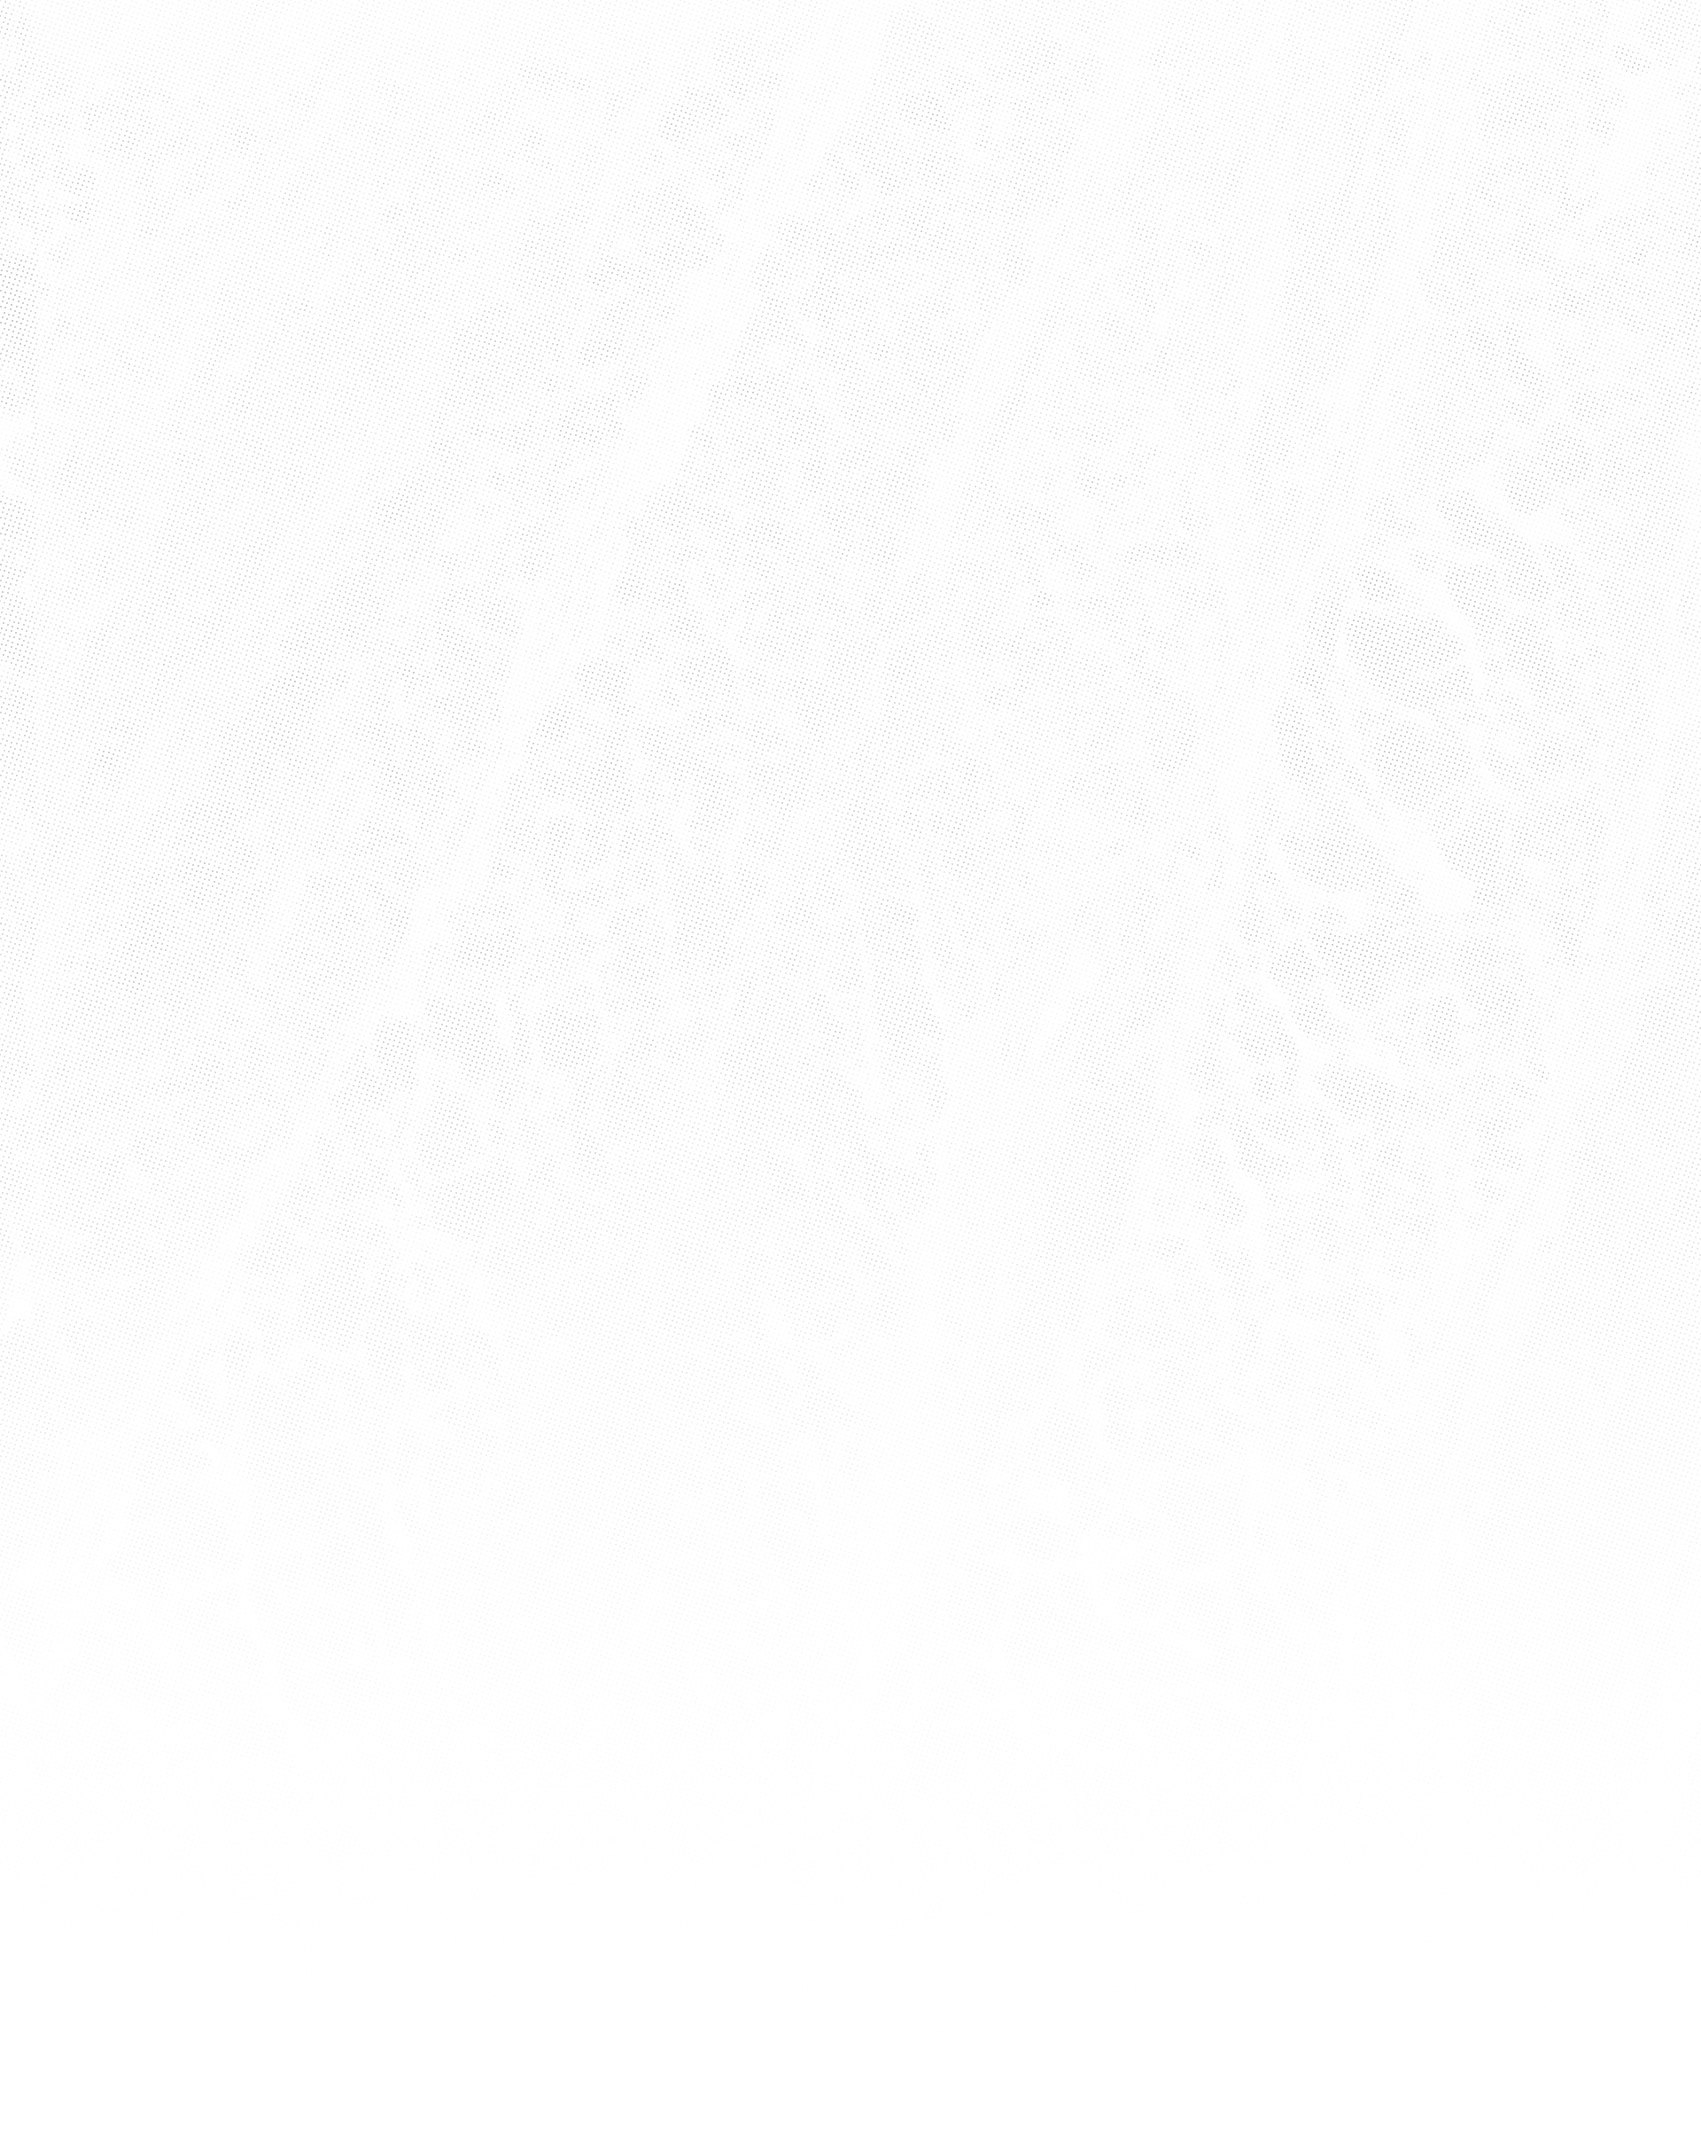
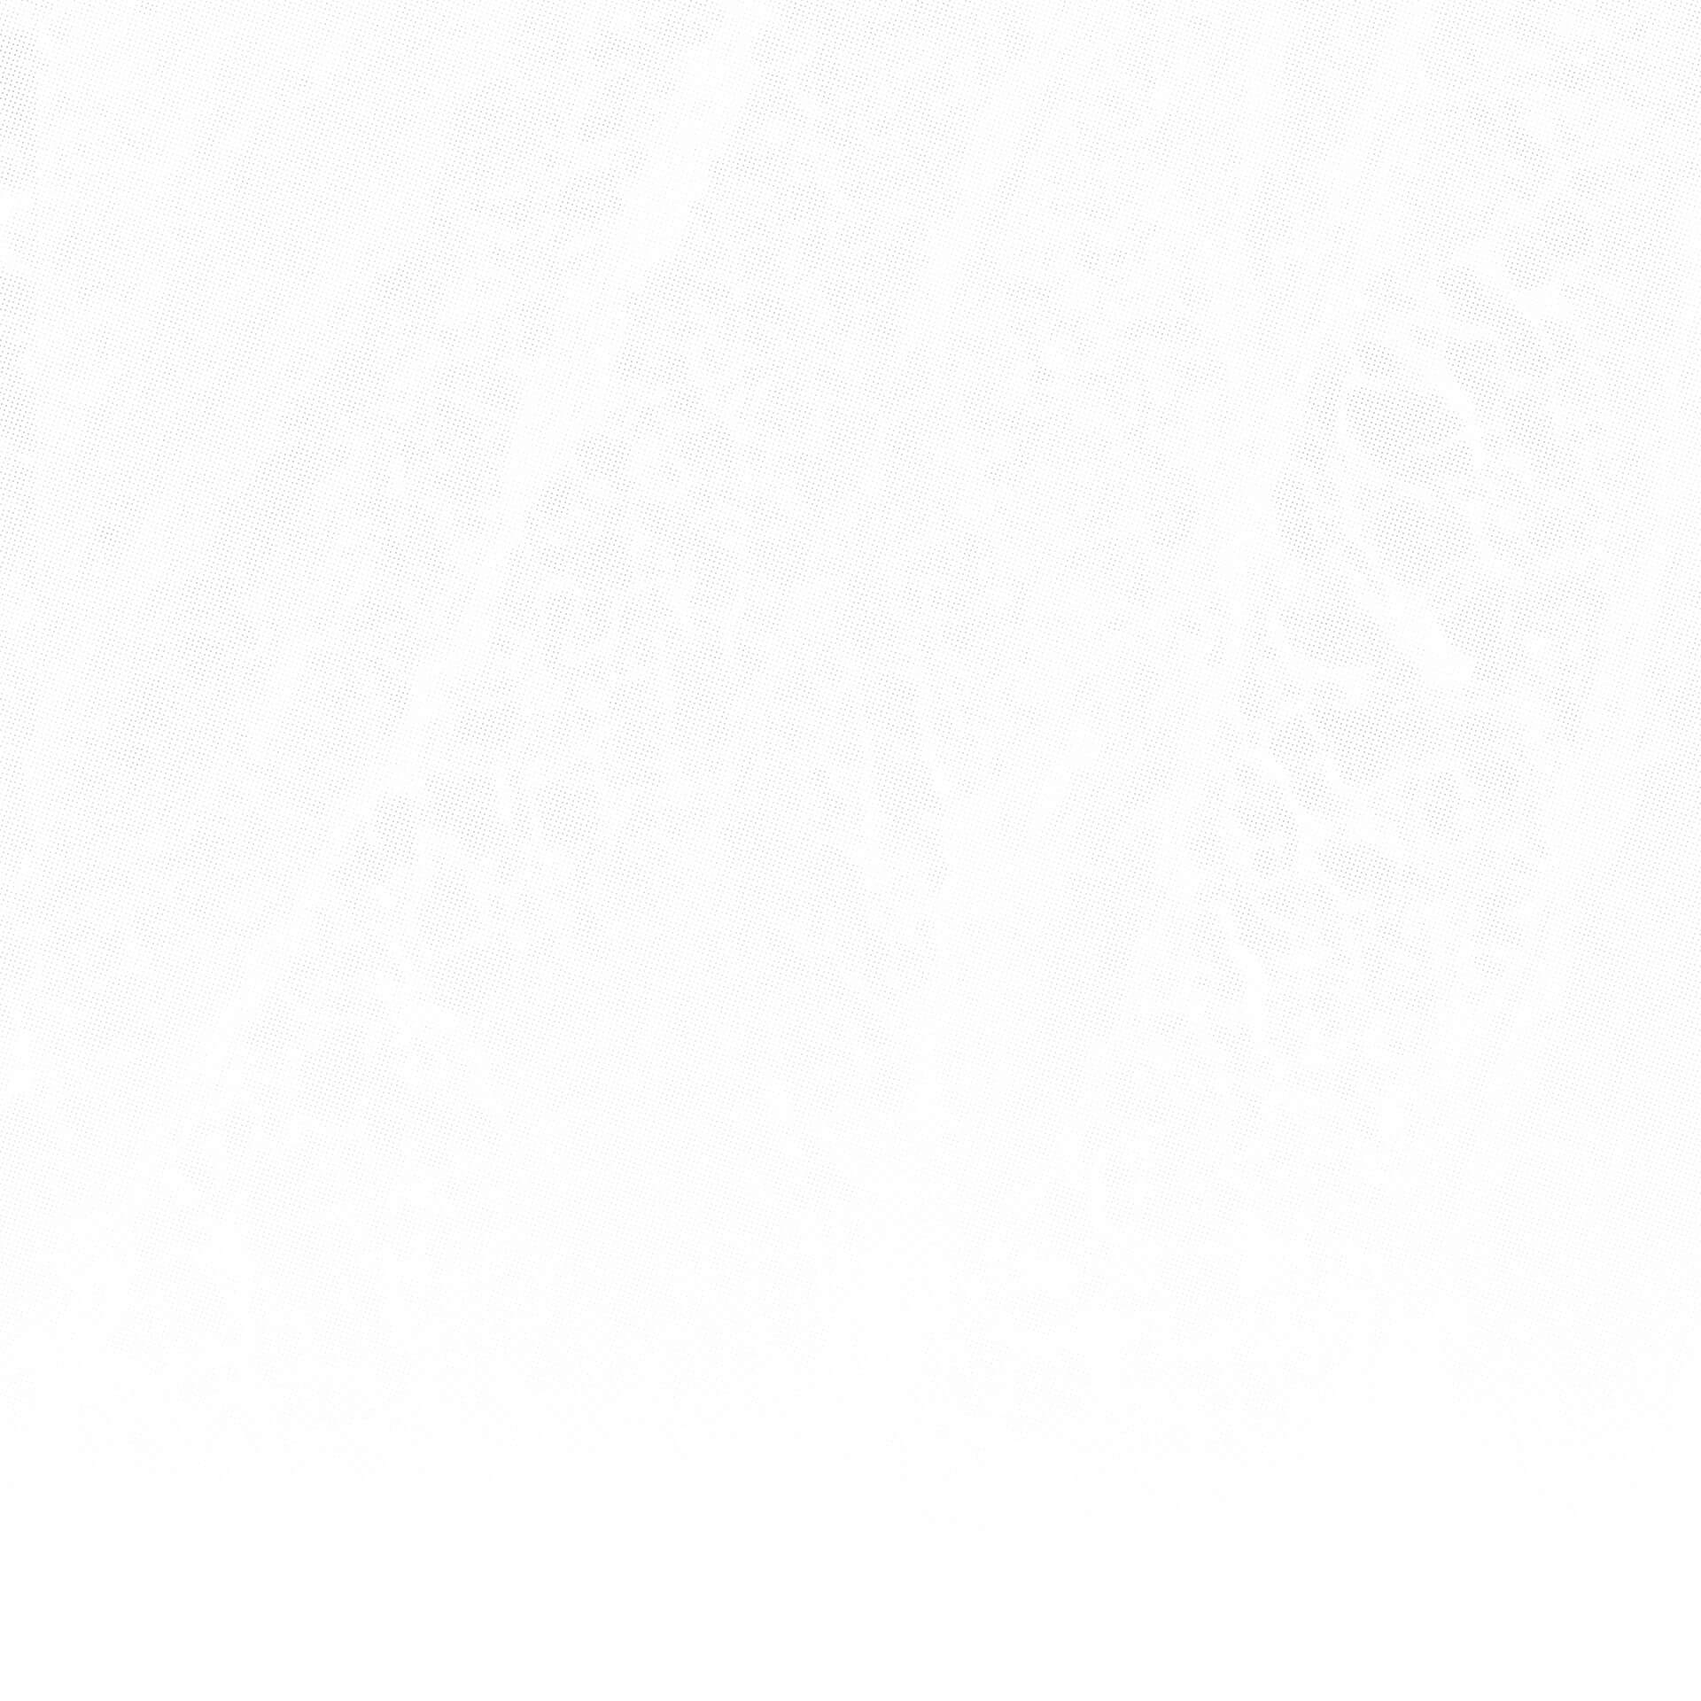
Compress background image

diff --git a/css/style.css b/css/style.css
@@ -4,7 +4,7 @@
 }
 
 html {
-    background-image: url(../img/bg.jpg) !important;
+    background-image: url('../img/bg.jpg') !important;
 }
 
 .landing,
